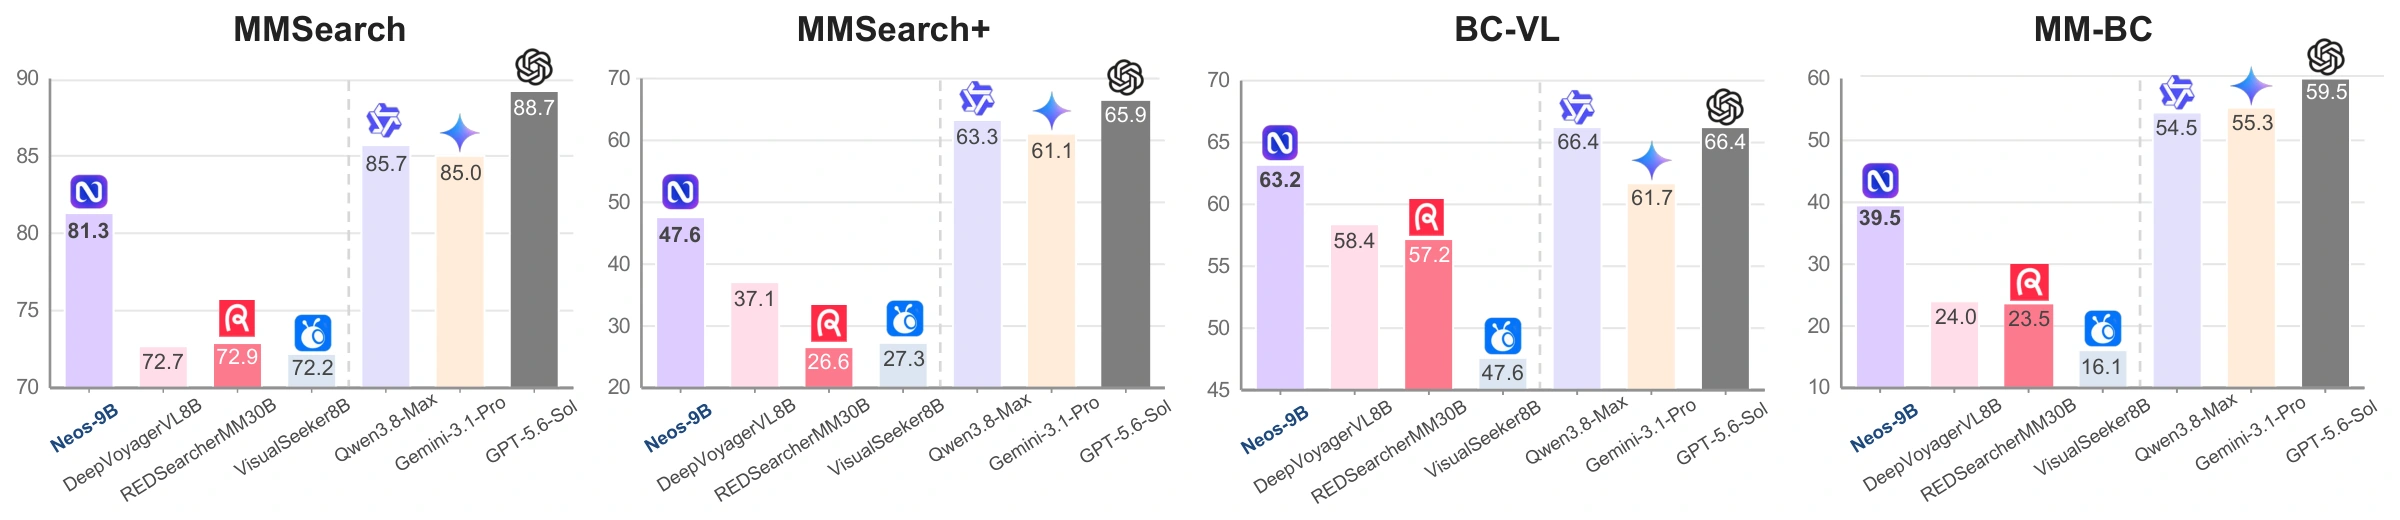
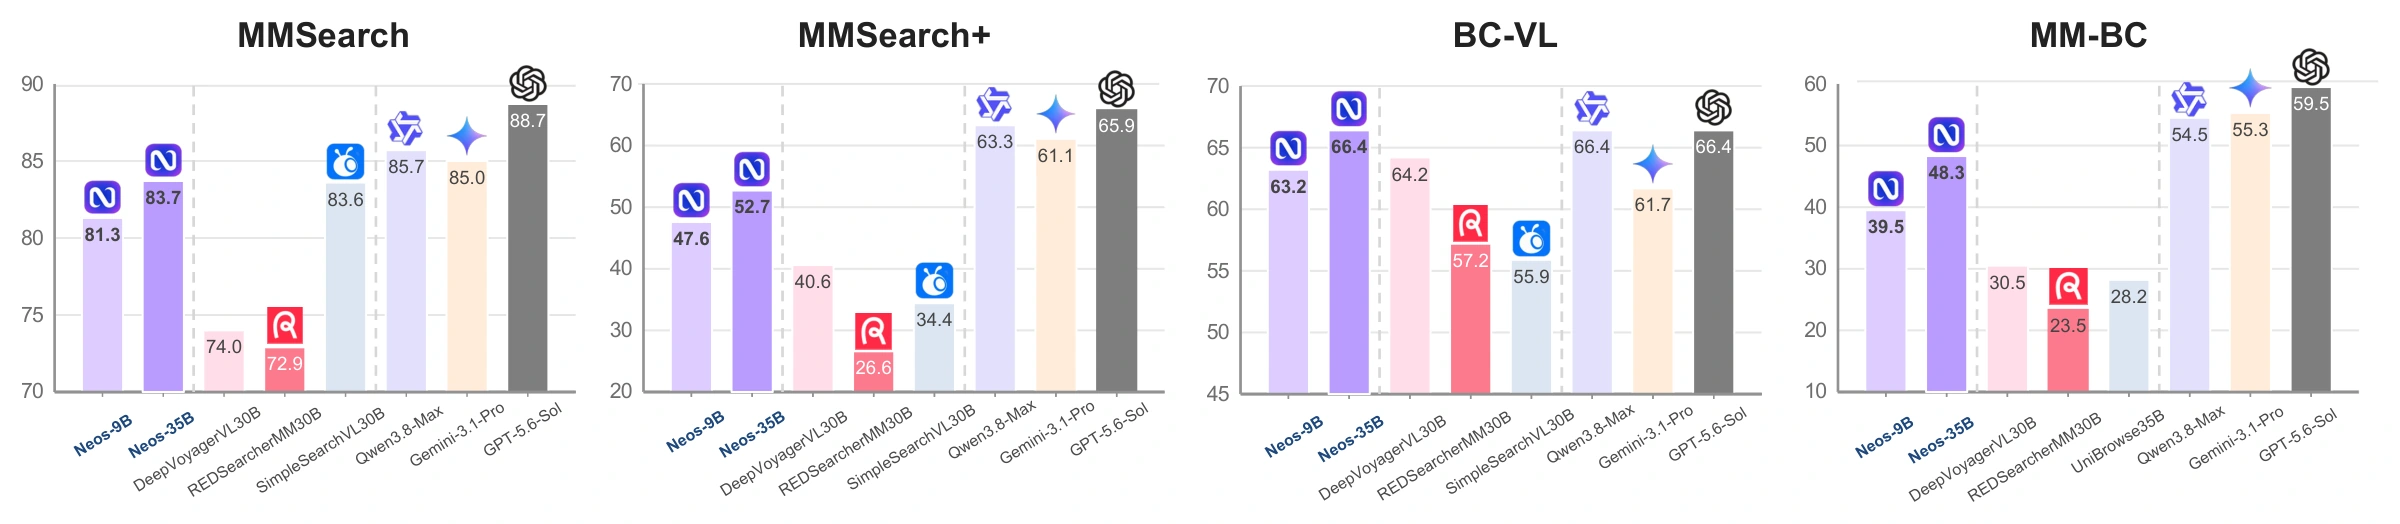
Update paper

diff --git a/Neos/index.html b/Neos/index.html
@@ -5,7 +5,7 @@
     <meta name="viewport" content="width=device-width, initial-scale=1">
     <meta name="color-scheme" content="light">
     <meta name="theme-color" content="#fbf9fb">
-    <meta name="neos-preview-build" content="20261009-clean-ui">
+    <meta name="neos-preview-build" content="20261009-paper-update">
     <meta name="description" content="Neos is a multimodal deep search framework that learns to interleave search and visual reasoning through agent–environment co-evolution.">
     <meta property="og:type" content="website">
     <meta property="og:url" content="https://ekko-he.github.io/Neos/">
@@ -15,7 +15,7 @@
     <link rel="canonical" href="https://ekko-he.github.io/Neos/">
     <link rel="icon" type="image/png" href="assets/neos-logo.png">
     <link rel="stylesheet" href="styles.css?v=20261009-clean-ui">
-    <script src="cases.js?v=2" defer></script>
+    <script src="cases.js?v=20261009-paper-update" defer></script>
     <script src="site.js?v=20261009-clean-ui" defer></script>
   </head>
   <body>
@@ -48,6 +48,8 @@
           <div class="author-row">
             <span>Wenjie Li<sup>2</sup></span>
             <span>Haoran Sun<sup>3</sup></span>
+            <span>Kaixun Jiang<sup>3</sup></span>
+            <span>Jiyuan Fu<sup>3</sup></span>
             <span>Guannan Zhang<sup>1</sup></span>
             <span>Hongwei Xue<sup>1,†</sup></span>
           </div>
@@ -108,7 +110,7 @@
 
           <p>To make this coupling learnable, Neos constructs training tasks with intermediate visual dependencies while filtering out textual shortcuts, and introduces a lightweight, trainable Multimodal Evidence Interface (MEI) that transforms retrieved content into goal-conditioned observations. At its core, an <em>agent–environment co-evolution</em> procedure treats MEI as a co-adaptive component of this loop. Specifically, reference-guided credit assignment uses verified successful trajectories to localize critical policy errors while preserving credit for useful decisions in failed searches, whereas rollout feedback selects informative local evidence-processing interactions for MEI supervised fine-tuning (SFT).</p>
 
-          <p>By alternating policy reinforcement learning (RL) with MEI SFT, Neos allows the policy's evolving evidence requests to shape MEI training and the adapted MEI to reshape subsequent observations, closing the loop between evidence acquisition and evidence-conditioned action. Across ten benchmarks, experiments show that Neos-9B improves over its backbone under the same tool workflow by <strong>17.4 percentage points on average</strong>, achieving leading performance among specialized multimodal deep search agents.</p>
+          <p>By alternating policy reinforcement learning (RL) with MEI SFT, Neos allows the policy's evolving evidence requests to shape MEI training and the adapted MEI to reshape subsequent observations, closing the loop between evidence acquisition and evidence-conditioned action. Across ten benchmarks, <strong>Neos-9B and Neos-35B</strong> demonstrate leading performance among specialized multimodal deep-search agents.</p>
         </div>
       </section>
       <section class="research-section page-width" id="method" aria-labelledby="method-title" data-figure-group>
@@ -124,15 +126,15 @@
           <button type="button" class="tab-button" data-figure-target="figure-data" aria-pressed="false" aria-controls="figure-data">Data construction</button>
         </div>
         <figure class="paper-figure" id="figure-training" data-figure-panel>
-          <button class="figure-open" type="button" data-full-image="assets/figures/training.webp" data-caption="Agent–environment co-evolution" aria-label="Enlarge the agent–environment co-evolution figure">
-            <img src="assets/figures/training.webp" width="2400" height="1228" alt="Neos training overview: reference-guided policy reinforcement learning alternates with supervised fine-tuning of the Multimodal Evidence Interface." loading="lazy" decoding="async">
+          <button class="figure-open" type="button" data-full-image="assets/figures/training.webp?v=20261009-paper-update" data-caption="Agent–environment co-evolution" aria-label="Enlarge the agent–environment co-evolution figure">
+            <img src="assets/figures/training.webp?v=20261009-paper-update" width="2400" height="1228" alt="Neos training overview: reference-guided policy reinforcement learning alternates with supervised fine-tuning of the Multimodal Evidence Interface." loading="lazy" decoding="async">
             <span class="zoom-hint" aria-hidden="true">↗ Enlarge</span>
           </button>
           <figcaption><strong>Agent–environment co-evolution.</strong> Policy RL alternates with MEI SFT on outcome- and process-filtered online interactions. Reference-guided credit supports policy optimization and identifies useful local interactions for MEI updates.</figcaption>
         </figure>
         <figure class="paper-figure" id="figure-data" data-figure-panel hidden>
-          <button class="figure-open" type="button" data-full-image="assets/figures/data-pipeline.webp" data-caption="Data synthesis pipeline" aria-label="Enlarge the data construction figure">
-            <img src="assets/figures/data-pipeline.webp" width="2400" height="1449" alt="Data construction with visual checkpoints, blind visual grounding, question rewriting, shortcut screening, and verified search trajectories." loading="lazy" decoding="async">
+          <button class="figure-open" type="button" data-full-image="assets/figures/data-pipeline.webp?v=20261009-paper-update" data-caption="Data synthesis pipeline" aria-label="Enlarge the data construction figure">
+            <img src="assets/figures/data-pipeline.webp?v=20261009-paper-update" width="2400" height="1449" alt="Data construction with visual checkpoints, blind visual grounding, question rewriting, shortcut screening, and verified search trajectories." loading="lazy" decoding="async">
             <span class="zoom-hint" aria-hidden="true">↗ Enlarge</span>
           </button>
           <figcaption><strong>Data synthesis pipeline.</strong> Reasoning structures with visual checkpoints undergo blind visual grounding, question rewriting, and shortcut screening. Verified successful searches provide policy demonstrations, success references, and local MEI training interactions.</figcaption>
@@ -145,25 +147,33 @@
             <p class="eyebrow section-index">03 <span aria-hidden="true">/</span> Results</p>
             <h2 id="results-title">Across ten benchmarks.</h2>
           </div>
-          <p class="section-description">Neos-9B improves over its backbone under the same tool workflow by 17.4 percentage points on average.</p>
+          <p class="section-description">Neos-9B and Neos-35B demonstrate leading performance among specialized multimodal deep-search agents.</p>
         </div>
         <div class="figure-tabs" role="group" aria-label="Results figure selection">
           <button type="button" class="tab-button" data-figure-target="figure-benchmarks" aria-pressed="true" aria-controls="figure-benchmarks">Benchmark performance</button>
           <button type="button" class="tab-button" data-figure-target="figure-tools" aria-pressed="false" aria-controls="figure-tools">Tool-use distribution</button>
+          <button type="button" class="tab-button" data-figure-target="figure-mei-interval" aria-pressed="false" aria-controls="figure-mei-interval">MEI update interval</button>
         </div>
         <figure class="paper-figure" id="figure-benchmarks" data-figure-panel>
-          <button class="figure-open" type="button" data-full-image="assets/figures/benchmarks.webp" data-caption="Benchmark performance of Neos-9B" aria-label="Enlarge the benchmark performance figure">
-            <img src="assets/figures/benchmarks.webp" width="2400" height="520" alt="Bar charts comparing Neos-9B with baselines on MMSearch, MMSearch+, BC-VL, and MM-BC." loading="lazy" decoding="async">
+          <button class="figure-open" type="button" data-full-image="assets/figures/benchmarks.webp?v=20261009-paper-update" data-caption="Benchmark performance of Neos-9B and Neos-35B" aria-label="Enlarge the benchmark performance figure">
+            <img src="assets/figures/benchmarks.webp?v=20261009-paper-update" width="2400" height="524" alt="Bar charts comparing Neos-9B and Neos-35B with baselines on MMSearch, MMSearch+, BC-VL, and MM-BC." loading="lazy" decoding="async">
             <span class="zoom-hint" aria-hidden="true">↗ Enlarge</span>
           </button>
-          <figcaption><strong>Benchmark performance of Neos-9B.</strong> Four representative deep-search benchmarks: MMSearch, MMSearch+, BC-VL, and MM-BC.</figcaption>
+          <figcaption><strong>Benchmark performance of Neos-9B and Neos-35B.</strong> Four representative deep-search benchmarks: MMSearch, MMSearch+, BC-VL, and MM-BC.</figcaption>
         </figure>
         <figure class="paper-figure" id="figure-tools" data-figure-panel hidden>
-          <button class="figure-open" type="button" data-full-image="assets/figures/tool-use.webp" data-caption="Tool-call distribution across ten benchmarks" aria-label="Enlarge the tool-use distribution figure">
-            <img src="assets/figures/tool-use.webp" width="2400" height="795" alt="Tool-call distributions across ten benchmarks, showing how search, page reading, image retrieval, and cropping are used." loading="lazy" decoding="async">
+          <button class="figure-open" type="button" data-full-image="assets/figures/tool-use.webp?v=20261009-paper-update" data-caption="Tool-call distribution across ten benchmarks" aria-label="Enlarge the tool-use distribution figure">
+            <img src="assets/figures/tool-use.webp?v=20261009-paper-update" width="2400" height="795" alt="Tool-call distributions across ten benchmarks, showing how search, page reading, image retrieval, and cropping are used." loading="lazy" decoding="async">
             <span class="zoom-hint" aria-hidden="true">↗ Enlarge</span>
           </button>
           <figcaption><strong>Tool-call distribution across ten benchmarks.</strong> The paper’s visualization of the tools used during multimodal search.</figcaption>
+        </figure>
+        <figure class="paper-figure" id="figure-mei-interval" data-figure-panel hidden>
+          <button class="figure-open" type="button" data-full-image="assets/figures/mei-interval.webp?v=20261009-paper-update" data-caption="Effect of the MEI update interval" aria-label="Enlarge the MEI update interval figure">
+            <img src="assets/figures/mei-interval.webp?v=20261009-paper-update" width="2400" height="1176" alt="BrowseComp-VL scores of the 9B model across policy updates, comparing MEI update intervals K = 1, 2, 5, 10, and 20." loading="lazy" decoding="async">
+            <span class="zoom-hint" aria-hidden="true">↗ Enlarge</span>
+          </button>
+          <figcaption><strong>Effect of the MEI update interval on BrowseComp-VL with the 9B model.</strong> <em>K</em> is the number of policy-training batches between MEI updates.</figcaption>
         </figure>
       </section>
 
@@ -186,7 +196,7 @@
               <h3 class="replay-title" id="replay-title">From a concert to six controls</h3>
               <div class="replay-meta" id="replay-meta">MMBC · 10 turns</div>
             </div>
-            <button class="text-button" id="paper-case" type="button" data-full-image="assets/figures/recorder-case.webp" data-caption="MMBC case study">View paper figure ↗</button>
+            <button class="text-button" id="paper-case" type="button" data-full-image="assets/figures/recorder-case.webp?v=20261009-paper-update" data-caption="MMBC case study">View paper figure ↗</button>
           </div>
           <div class="replay-body">
             <aside class="replay-input" aria-label="Multimodal input">

diff --git a/Neos/cases.js b/Neos/cases.js
@@ -222,7 +222,7 @@ window.NEOS_CASES = [
         "answer": "6"
       }
     ],
-    "paperFigure": "assets/figures/recorder-case.webp",
+    "paperFigure": "assets/figures/recorder-case.webp?v=20261009-paper-update",
     "provenance": {
       "kind": "recorded_benchmark_evaluation",
       "sample_id": "id_25",
@@ -472,7 +472,7 @@ window.NEOS_CASES = [
         "answer": "The scarf — she's wrapping a red plaid (Burberry check) scarf around her neck, matching the check pattern of the umbrella."
       }
     ],
-    "paperFigure": "assets/figures/fashion-case.webp",
+    "paperFigure": "assets/figures/fashion-case.webp?v=20261009-paper-update",
     "provenance": {
       "kind": "recorded_benchmark_evaluation",
       "sample_id": "item_038",
